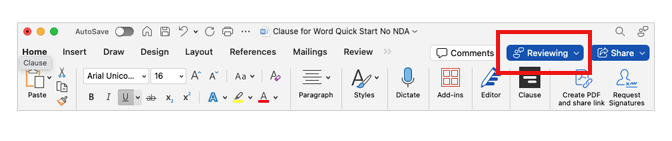
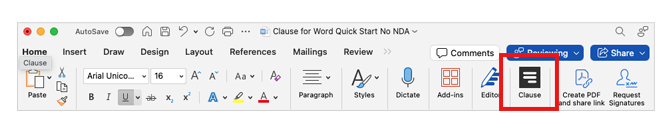
Update getting started instructions for improved user experience
- Changed step 4 title from "Switch to Reviewing mode" to "Launch Clause with Sample Document"
- Updated step 4 to include downloading sample NDA doc and signing into Clause
- Simplified step 5 to focus on Policy Review workflow
- Added downloadable link to sample document in step 4

🤖 Generated with [Claude Code](https://claude.ai/code)

Changed region(s): [[0.0312, 0.1471, 0.9688, 0.8235], [0.5938, 0.5588, 0.625, 0.6176], [0.5938, 0.4706, 0.625, 0.5294]]

diff --git a/src/pages/GettingStarted.tsx b/src/pages/GettingStarted.tsx
@@ -41,18 +41,18 @@ const GettingStarted: React.FC = () => {
     },
     {
       step: 4,
-      title: 'Switch to "Reviewing" mode',
-      description: "After installation, you'll see the Clause panel alongside your document. Switch Word to 'Reviewing' mode to enable track changes, which Clause uses to show its suggestions and edits.",
+      title: 'Launch Clause with Sample Document',
+      description: (
+        <>
+          Download our <a href="/Clause-Example-NDA.docx" download className="text-blue-600 hover:text-blue-700 font-semibold underline">Sample NDA Doc</a> and open it inside Word. After opening the sample doc, you'll see the Clause logo in the ribbon. Click the logo to open Clause and sign in. Switch Word to 'Reviewing' mode to enable track changes, which Clause uses to show its revisions.
+        </>
+      ),
       screenshot: "/images/step4-reviewing-mode.png"
     },
     {
       step: 5,
       title: 'Try the Policy Review skill',
-      description: (
-        <>
-          Download our <a href="/Clause-Example-NDA.docx" download className="text-blue-600 hover:text-blue-700 font-semibold underline">Sample NDA Doc</a> and open it inside Word. In the Clause add-in panel, click on the 'Policy Review' tab. Below the Policy Review tab you'll see a play button - click it to run Clause's policy review on the sample document using the example policies.
-        </>
-      ),
+      description: "Click on the 'Policy Review' tab in the Clause panel. Below the Policy Review tab you'll see a play button - click it to run Clause's policy review on the sample document using the example policies.",
       screenshot: "/images/step5-clause-panel.png"
     }
   ];
